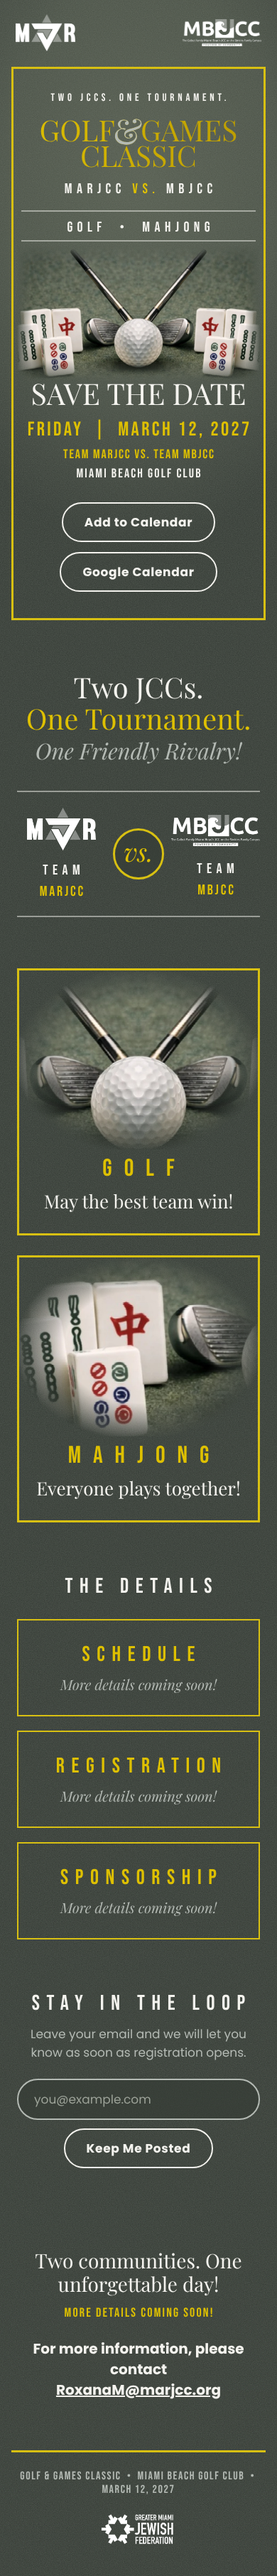
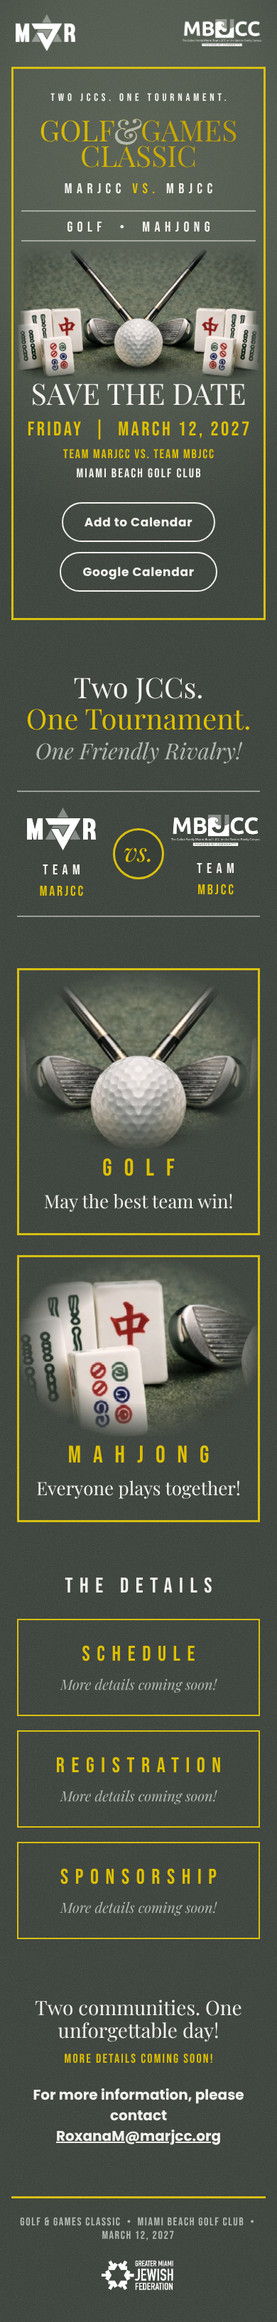
Landing: remove the Stay in the Loop section
Claude-Session: https://claude.ai/code/session_014Yf17Fk2qdVoQEw95c3A5W

diff --git a/landing/main.js b/landing/main.js
@@ -1,24 +1,4 @@
-// Golf & Games Classic landing (green-felt design): motion flag + signup placeholder.
+// Golf & Games Classic landing (green-felt design): motion flag.
 (function () {
   document.documentElement.classList.add('js');
-
-  // Signup placeholder: no backend yet (see the TODO comment in index.html)
-  var form = document.getElementById('signup');
-  if (!form) return;
-  form.addEventListener('submit', function (ev) {
-    ev.preventDefault();
-    var input = document.getElementById('email');
-    var msg = document.getElementById('signup-msg');
-    var ok = /^[^\s@]+@[^\s@]+\.[^\s@]+$/.test(input.value.trim());
-    if (!ok) {
-      msg.textContent = 'Please enter a valid email address.';
-      input.setAttribute('aria-invalid', 'true');
-      input.focus();
-      return;
-    }
-    input.removeAttribute('aria-invalid');
-    // TODO (Resend): replace this block with fetch('/api/subscribe', { method: 'POST', body: JSON.stringify({ email: input.value }) })
-    msg.textContent = 'Thank you! We will let you know as soon as registration opens.';
-    form.reset();
-  });
 })();

diff --git a/landing/index.html b/landing/index.html
@@ -78,19 +78,6 @@
     </div>
   </section>
 
-  <!-- STAY IN THE LOOP (placeholder, no backend yet) -->
-  <section class="block loop" aria-labelledby="loop-h">
-    <h2 id="loop-h" class="caps section-h">Stay in the Loop</h2>
-    <p class="sub">Leave your email and we will let you know as soon as registration opens.</p>
-    <!-- TODO (Resend): post this form to a serverless function that adds the contact to a Resend audience. -->
-    <form id="signup" class="signup" novalidate>
-      <label for="email" class="sr">Email address</label>
-      <input id="email" name="email" type="email" autocomplete="email" placeholder="you@example.com" required>
-      <button type="submit" class="pill">Keep Me Posted</button>
-    </form>
-    <p id="signup-msg" class="msg" role="status" aria-live="polite"></p>
-  </section>
-
   <!-- CLOSING -->
   <section class="block closing">
     <p class="serif-close">Two communities. One unforgettable day!</p>

diff --git a/landing/styles.css b/landing/styles.css
@@ -82,11 +82,6 @@ a{color:inherit}
 .card .caps{font-size:30px}
 .card p+p{margin-top:10px;font-family:var(--serif);font-style:italic;color:var(--silver);font-size:20px}
 
-.loop .sub{margin-top:12px;color:var(--silver);font-size:17px}
-.signup{margin:24px auto 0;max-width:560px;display:flex;gap:12px;flex-wrap:wrap;justify-content:center}
-.signup input{flex:1 1 260px;min-width:0;padding:14px 22px;border-radius:999px;border:2px solid var(--silver);background:rgba(52,58,52,.6);color:var(--white);font:500 17px var(--sans)}
-.signup input::placeholder{color:#9BA197}
-.msg{margin-top:12px;min-height:1.4em;color:var(--gold);font-size:16px}
 
 .closing{padding-top:80px}
 .serif-close{font-family:var(--serif);font-size:clamp(28px,4.6vw,50px);line-height:1.15}

diff --git a/landing/README.md b/landing/README.md
@@ -3,7 +3,7 @@
 A single static page (no build step): `index.html`, `styles.css`, `main.js`, `assets/`.
 
 - Hero: last year's flyer layout on green felt with the gold frame (it draws itself on load), MARJCC and MBJCC in white at the top, the gold title with the silver ampersand (with a slow gold sheen), the photo, SAVE THE DATE, date, Team MARJCC vs. Team MBJCC, venue, and two white pill buttons: Add to Calendar (`assets/golf-games-classic-2027.ics`) and Google Calendar.
-- Sections: Two JCCs / One Tournament / One Friendly Rivalry!, the team matchup, Golf and Mahjong, The Details (Schedule, Registration, Sponsorship: "More details coming soon!"), Stay in the Loop, the closing line and the contact line (RoxanaM@marjcc.org).
+- Sections: Two JCCs / One Tournament / One Friendly Rivalry!, the team matchup, Golf and Mahjong, The Details (Schedule, Registration, Sponsorship: "More details coming soon!"), the closing line and the contact line (RoxanaM@marjcc.org).
 - Footer: event line, then the GMJF logo last.
 - Motion respects "reduce motion". Responsive down to 360 px wide.
 
@@ -24,7 +24,6 @@ node render.js
 The photo is a temporary placeholder. Replace `assets/event-photo.jpg` with the licensed stock photo (same file name) and run `node render.js`.
 
 ## Before launch
-- Stay in the Loop form is a placeholder: it only shows a thank-you message. Connect it to a serverless function that adds the email to a Resend audience (see the `TODO (Resend)` comments in `index.html` and `main.js`).
 - Once there is a domain, set `og:image` in `index.html` to the full URL (for example `https://example.org/og-image.png`).
 - Add the Register button when registration opens (white outlined pill, same `.pill` class).
 
